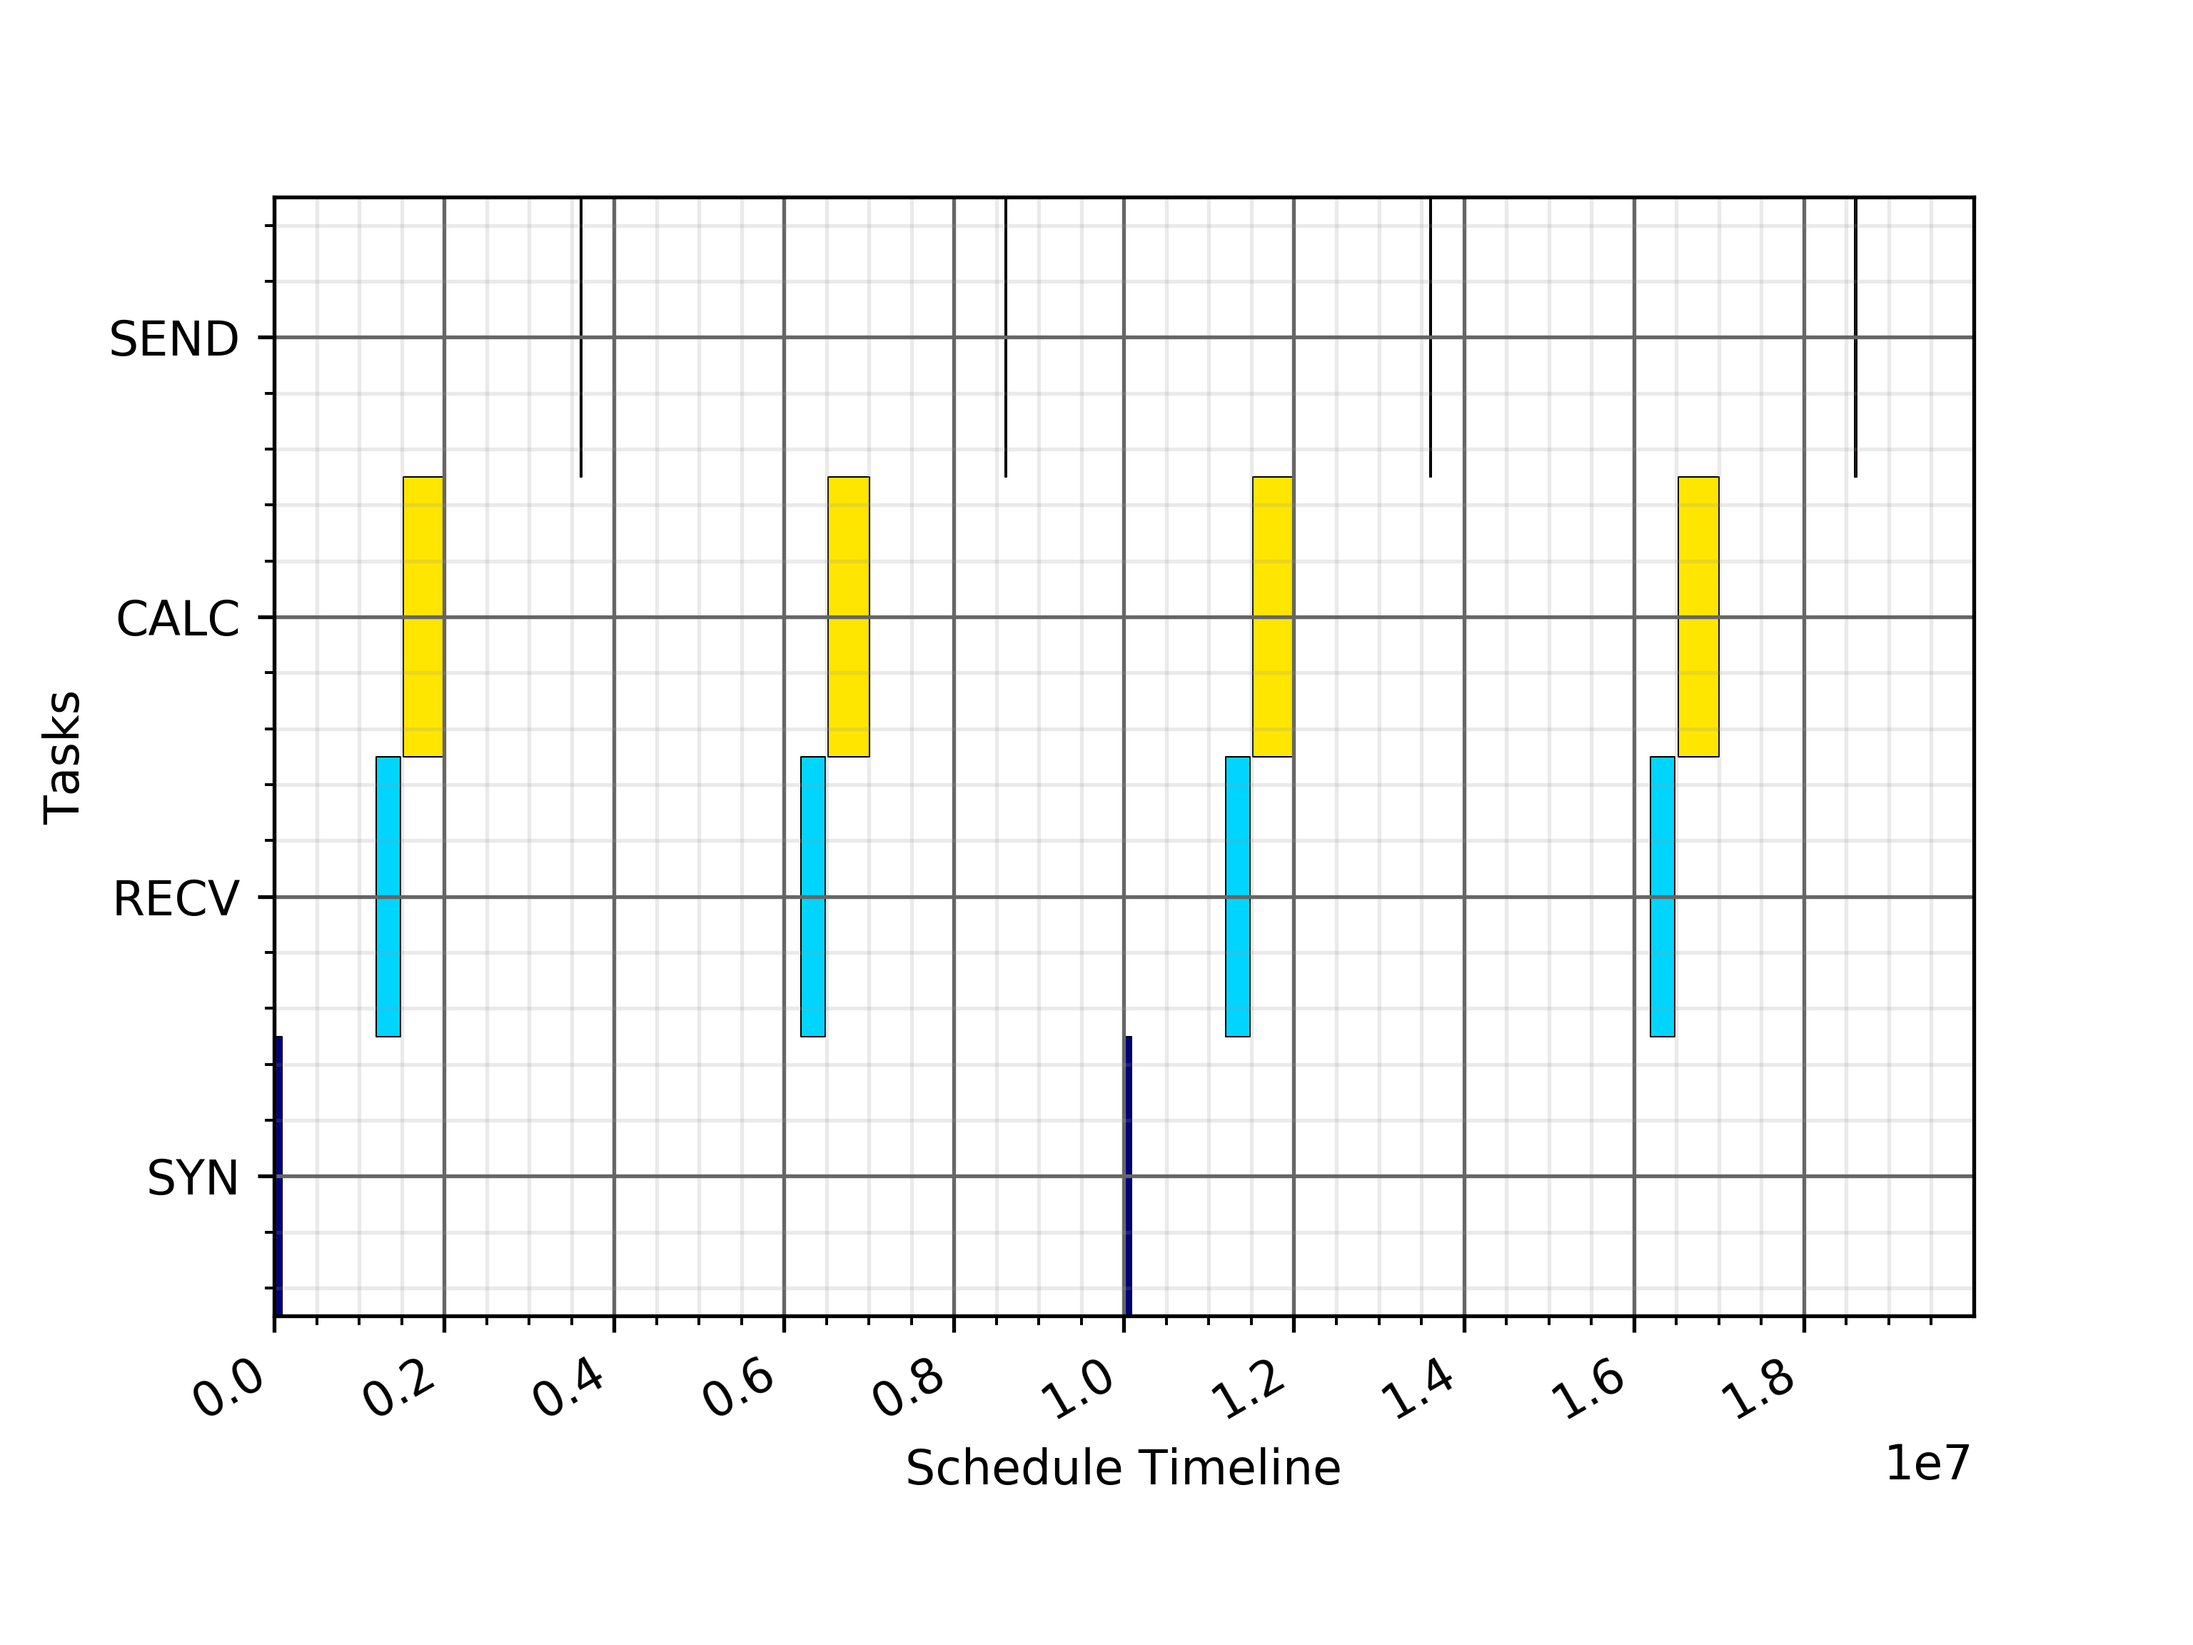
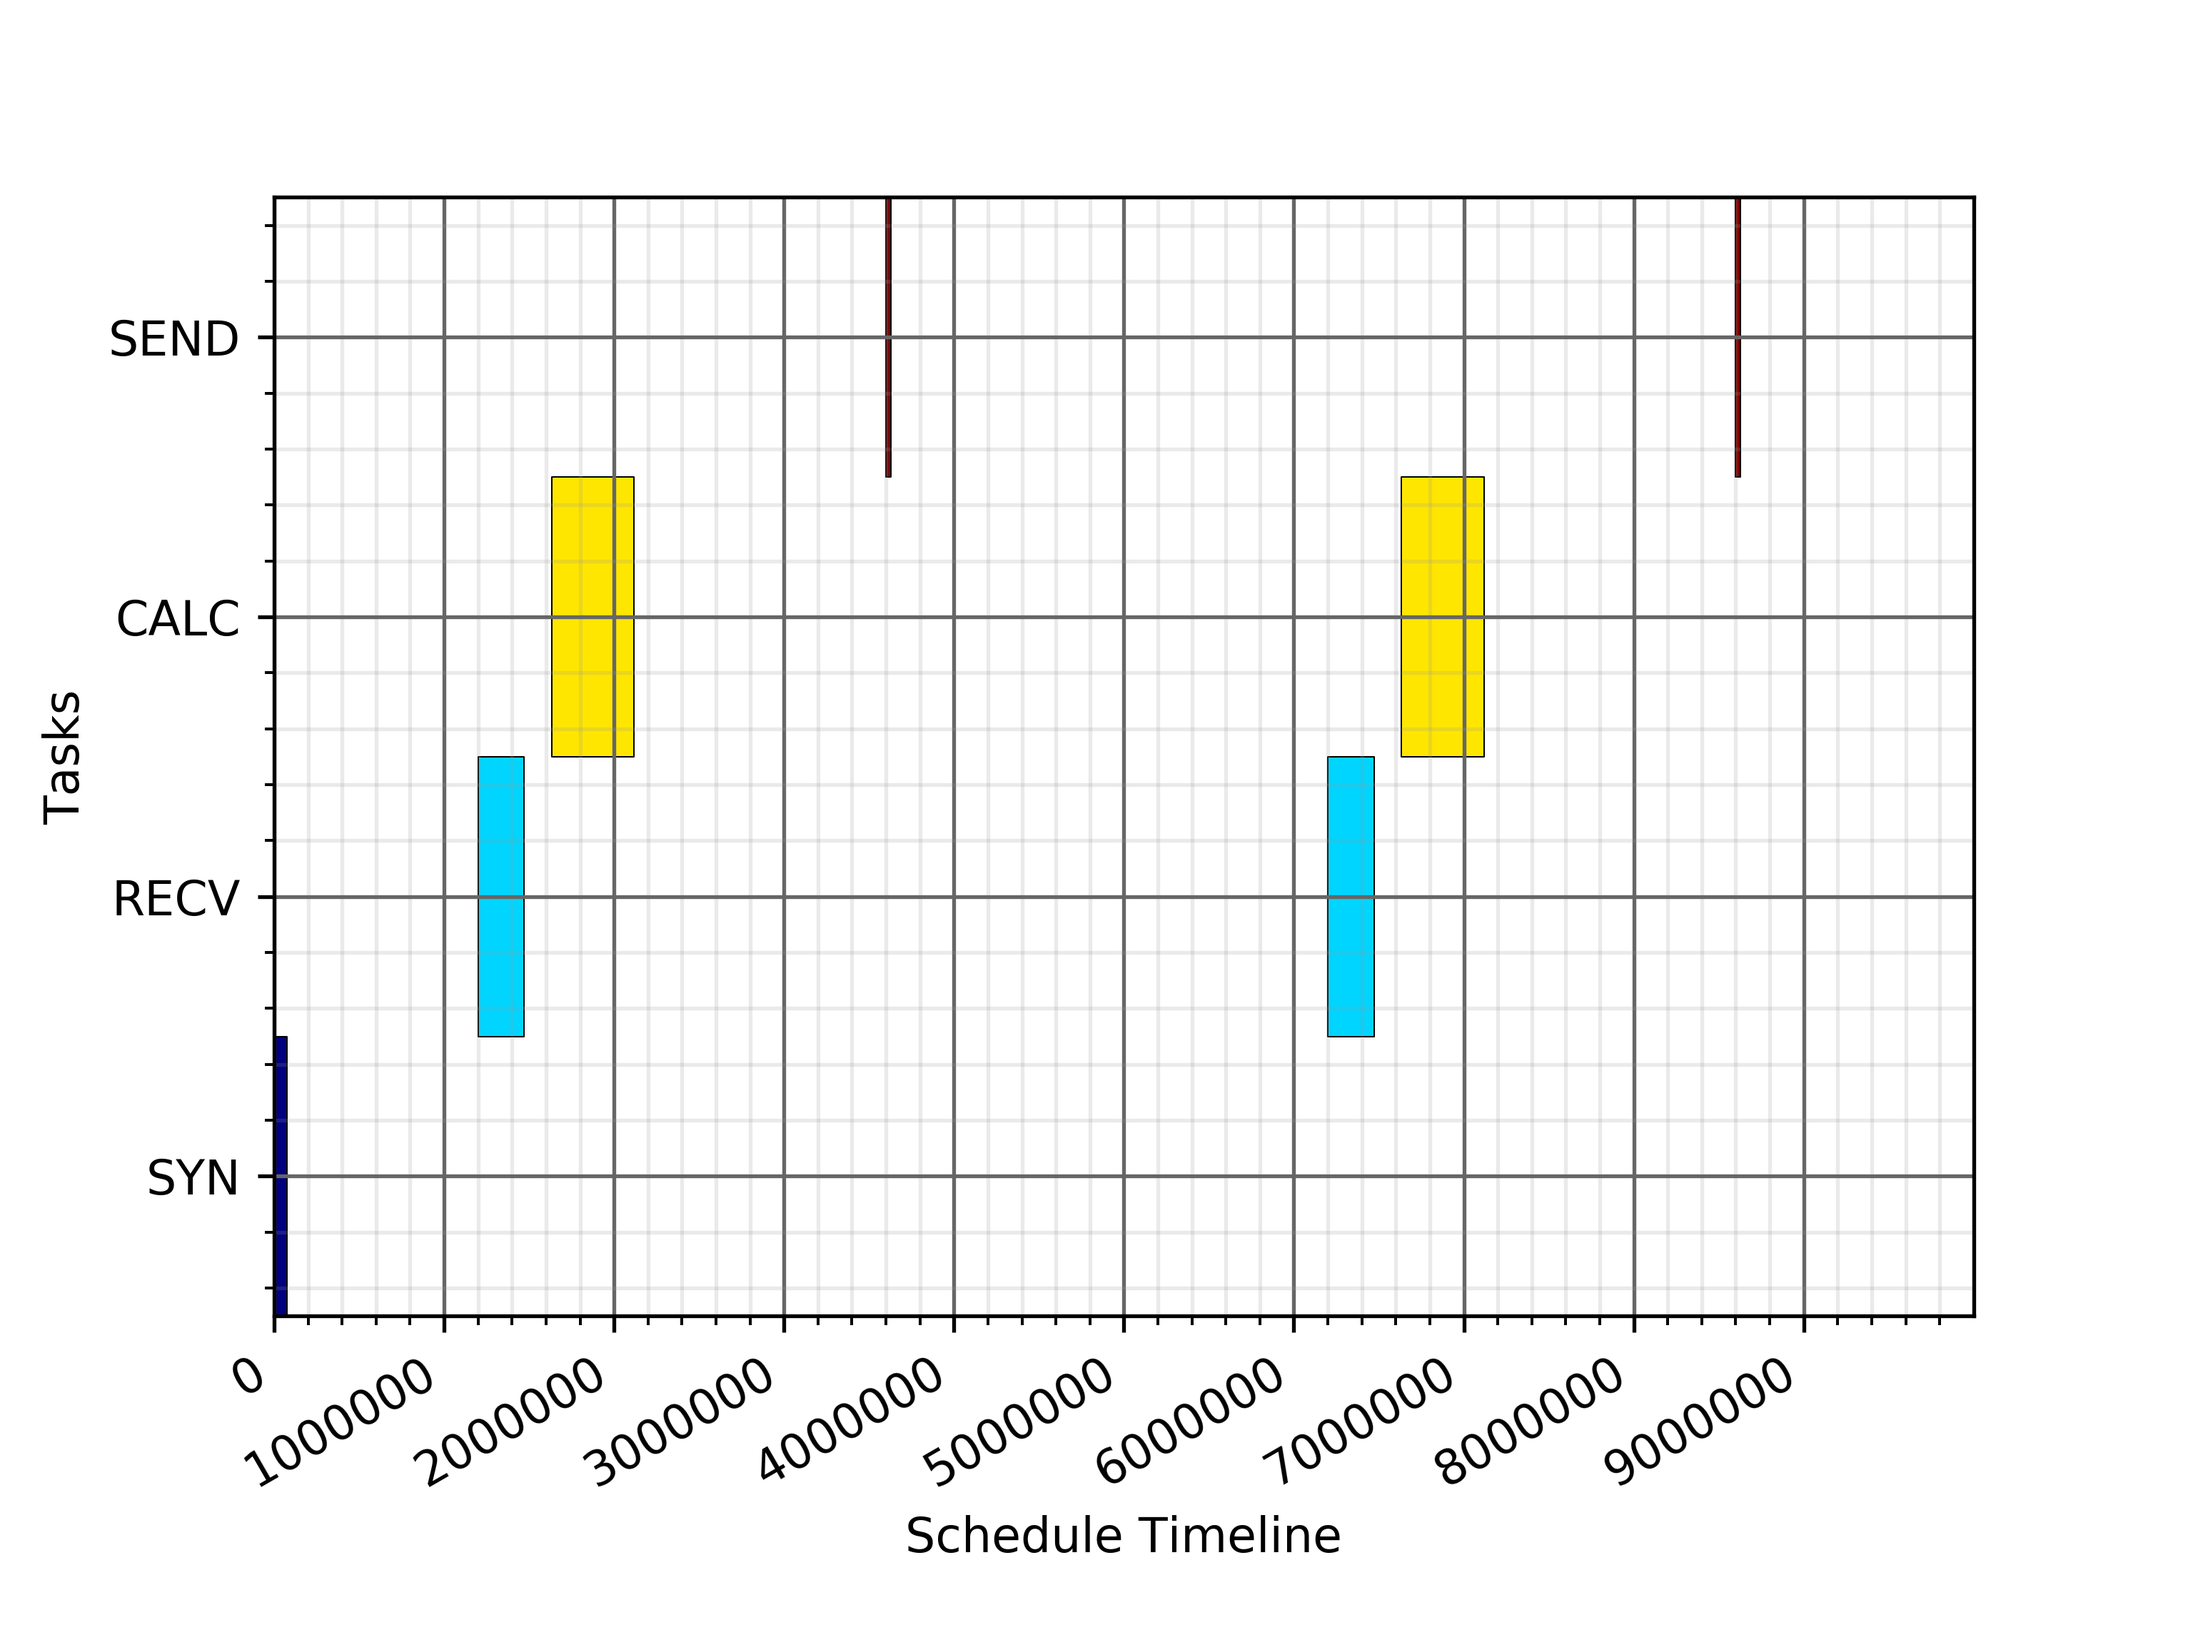
Support for task mapping to CPU ID

diff --git a/SimpleSMTScheduler.py b/SimpleSMTScheduler.py
@@ -1,5 +1,4 @@
 #!/usr/bin/python
-# Author: Eleftherios Kyriakakis
 
 import csv
 import getopt
@@ -25,14 +24,15 @@ interactive = False
 
 class Task:
 
-    def __init__(self, period: float, execution: float, deadline: float, offset: int, jitter: int,
+    def __init__(self, period: float, execution: float, deadline: float, offset: int, jitter: int, coreid: int,
                  name: str, fixed_pit: int = None, cfunc: str = "void"):
         self.name = name
         self.period = ceil(period)
         self.deadline = ceil(deadline)
         self.execution = ceil(execution)
-        self.offset = offset
+        self.offset = ceil(offset)
         self.jitter = ceil(jitter)
+        self.coreid = coreid
         self.release_instances = []
         self.cfunc = cfunc
         self.activation_instances = []
@@ -71,7 +71,7 @@ def z3_abs(x):
     return If(x >= 0, x, -x)
 
 
-def gen_schedule(task_set, wcet_gap):
+def gen_cyclic_schedule(task_set, wcet_gap):
     # Find the hyper period
     hyper_period = find_lcm([o.period for o in task_set])
     print("Schedule hyper period = %s" % hyper_period)
@@ -104,13 +104,14 @@ def gen_schedule(task_set, wcet_gap):
             # The start PIT should not fall within the execution of another task including a BAG
             for other_task in [o for o in task_set if o != test_task]:
                 for kk in range(len(other_task.release_instances)):
-                    smt.add(Or(
-                        test_task.release_instances[nn] + test_task.execution + wcet_gap <=
-                        other_task.release_instances[kk],
-                        test_task.release_instances[nn] >= other_task.release_instances[
-                            kk] + other_task.execution + wcet_gap
-                    )
-                    )
+                    if test_task.coreid == other_task.coreid:
+                        smt.add(Or(
+                            test_task.release_instances[nn] + test_task.execution + wcet_gap <=
+                            other_task.release_instances[kk],
+                            test_task.release_instances[nn] >= other_task.release_instances[
+                                kk] + other_task.execution + wcet_gap
+                        )
+                        )
     # Try to solve
     elapsed_time = 0
     start_time = time()
@@ -137,7 +138,7 @@ def gen_schedule(task_set, wcet_gap):
     return solution_model, hyper_period
 
 
-def plot_schedule(task_set, hyper_period, iterations):
+def plot_cyclic_schedule(task_set, hyper_period, iterations):
     # Declaring a figure "gnt"
     fig, axis = plt.subplots()
 
@@ -277,15 +278,19 @@ if __name__ == "__main__":
                 except ValueError:
                     fixed = None
                 try:
-                    name = str(row[6]).strip()
+                    coreid = float(row[6])
+                except ValueError:
+                    coreid = None
+                try:
+                    name = str(row[7]).strip()
                 except ValueError:
                     name = "Task %s" % rowIndex
                 try:
-                    func = str(row[7])
+                    func = str(row[8])
                 except ValueError:
                     func = "void"
 
-                taskSet.append(Task(period, execution, deadline, offset, jitter, name, fixed, func))
+                taskSet.append(Task(period, execution, deadline, offset, jitter, coreid, name, fixed, func))
                 rowIndex = rowIndex + 1
 
     # Show Utilization
@@ -295,7 +300,7 @@ if __name__ == "__main__":
     if [t for t in taskSet if t.execution > t.deadline]:
         sys.exit("\nTask set is not valid.\nExecution times violate period and deadline constraints")
     else:
-        schedule, hyperPeriod = gen_schedule(taskSet, wcet_offset)
+        schedule, hyperPeriod = gen_cyclic_schedule(taskSet, wcet_offset)
         if schedule is not None:
             for task in taskSet:
                 for pit in task.release_instances:
@@ -304,10 +309,10 @@ if __name__ == "__main__":
             # taskSet.sort(key=lambda x: x.getStartPIT()[0])
 
             if interactive:
-                schedulePlot = plot_schedule(taskSet, hyperPeriod, schedulePlotPeriods)
+                schedulePlot = plot_cyclic_schedule(taskSet, hyperPeriod, schedulePlotPeriods)
                 schedulePlot.show()
             elif plot:
-                schedulePlot = plot_schedule(taskSet, hyperPeriod, schedulePlotPeriods)
+                schedulePlot = plot_cyclic_schedule(taskSet, hyperPeriod, schedulePlotPeriods)
                 schedulePlot.savefig(scheduleFileName, dpi=MY_DPI)
 
             print("Name\tActivation Instances\t")
